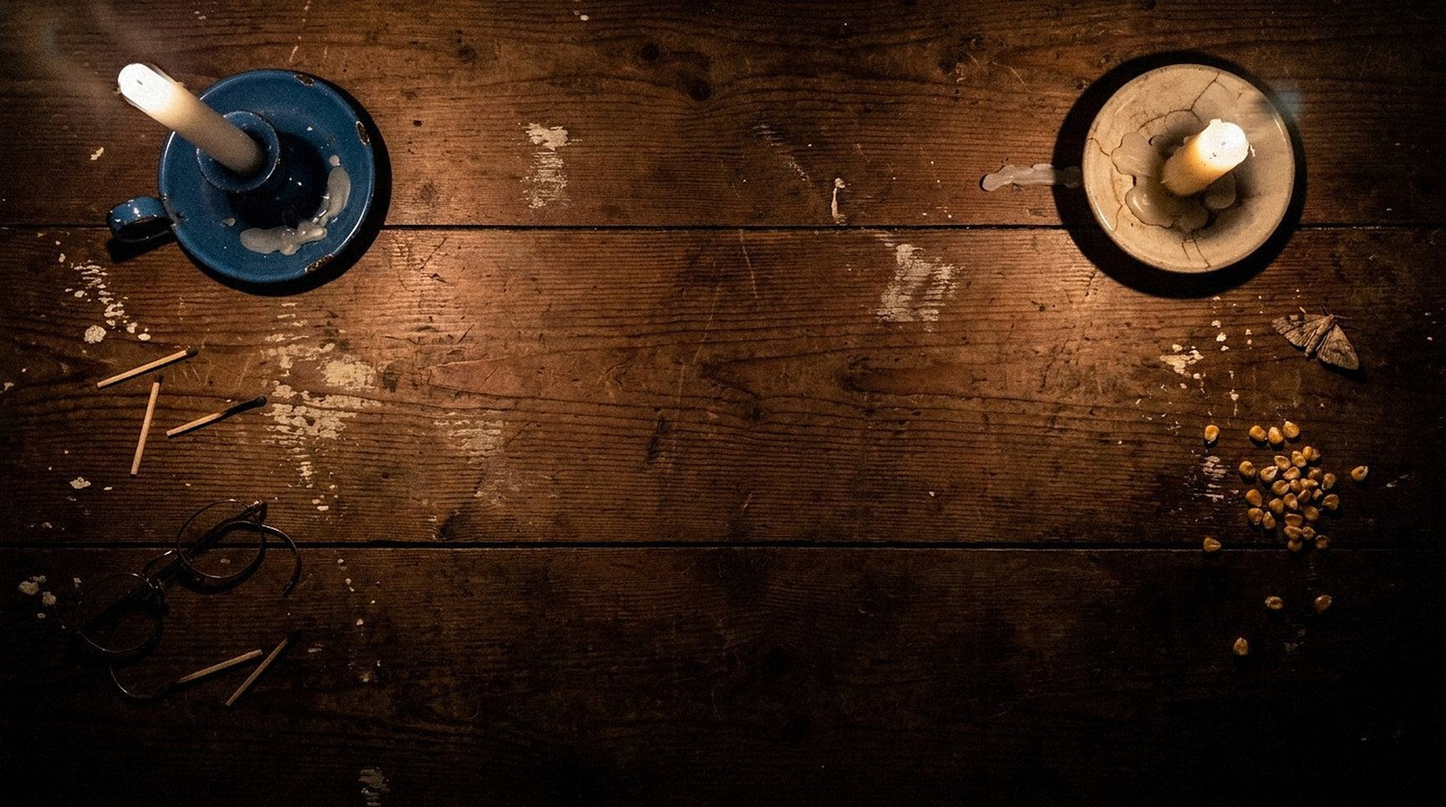
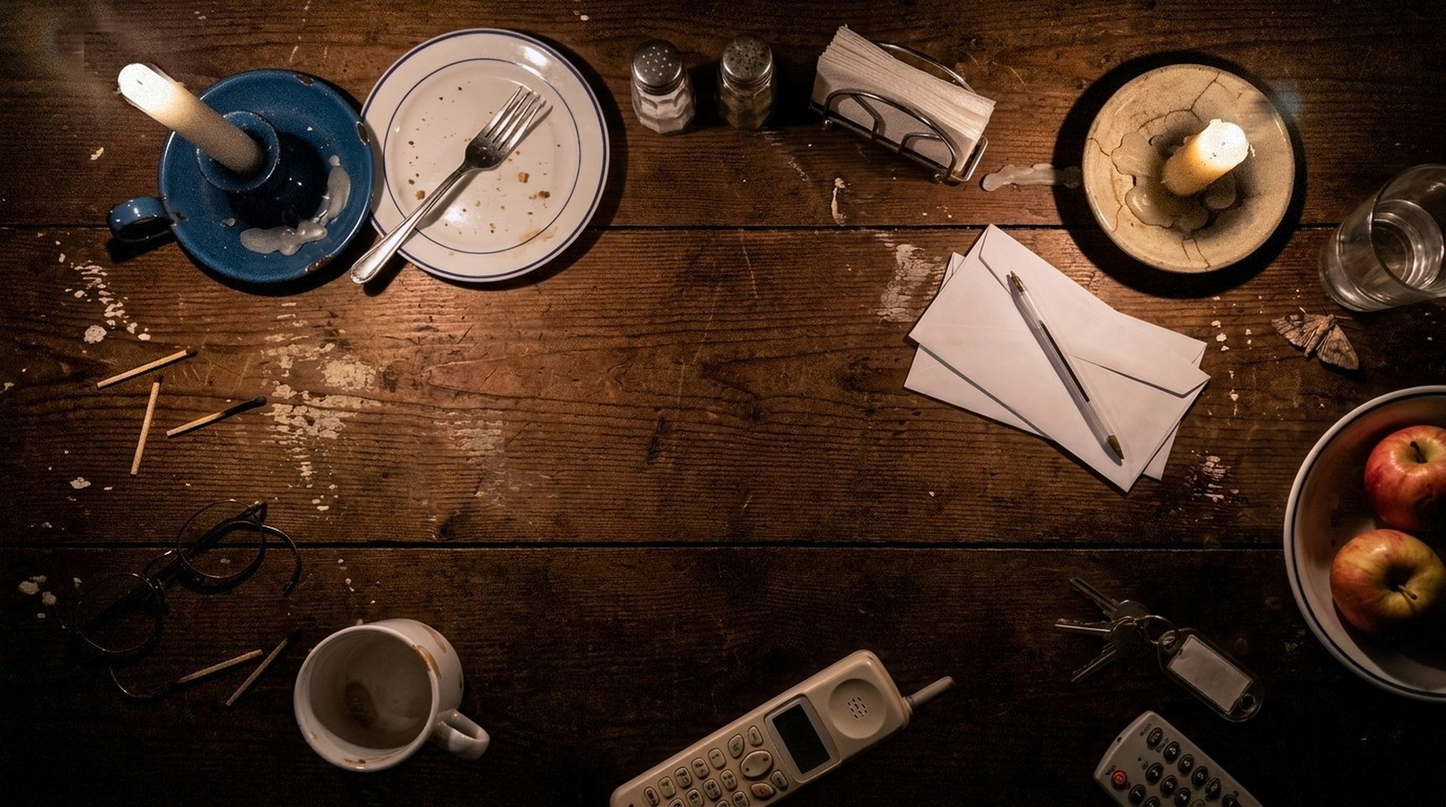
GOODBYE: /next/ with the supper table, the believable props in the brief, and the card and clock from before (the root is the live game, untouched)

diff --git a/next/places.js b/next/places.js
@@ -16,7 +16,7 @@
       // the walk up the drive (Flow, image to video, first frame = the still; played once, never looped, encoded without sound: the walk's own
       // sound is the game's, audio.js A.gravel / A.screenDoor / the crickets): files in assets/clips/farmhouse/. A file that is not there, or
       // is slow, gives the push-in still without a word.
-      exteriorClip: { land: 'exterior-land.mp4', port: 'exterior-port.mp4' }, thumb: 'assets/places/thumb-farmhouse.jpg?v=8f93fe68ae', plate: 'assets/places/farmhouse-plate.jpg?v=b4a169c408', plateHi: 'assets/places/farmhouse-plate-2x.jpg?v=c499b4accc', board: 'assets/places/farmhouse-board.jpg?v=efcffa0b28' },
+      exteriorClip: { land: 'exterior-land.mp4', port: 'exterior-port.mp4' }, thumb: 'assets/places/thumb-farmhouse.jpg?v=8f93fe68ae', plate: 'assets/places/farmhouse-plate.jpg?v=0b7898fa24', plateHi: 'assets/places/farmhouse-plate-2x.jpg?v=e179255f18', board: 'assets/places/farmhouse-board.jpg?v=efcffa0b28' },
     candles: [{ x: 131, y: 76 }, { x: 1368, y: 146 }],
     // the live flames: wick (x, y), lean of the photographed flame (tilt, radians from up), length, and the spot
     // darkened on the wick. The photographed flames are painted out of the plate files, so hide only chars the wick.

diff --git a/next/index.html b/next/index.html
@@ -604,7 +604,7 @@ html.gated #gate { position: fixed; inset: 0; z-index: 70; display: grid; place-
 })();
 </script>
 <script src="audio.js?v=82ed1b7a0c"></script>
-<script src="places.js?v=15464ddff7"></script>
+<script src="places.js?v=13cf6bf80a"></script>
 <script src="game.js?v=5f127f3f5d"></script>
 <script src="fullscreen.js?v=7141f6b697"></script>
 </body>
